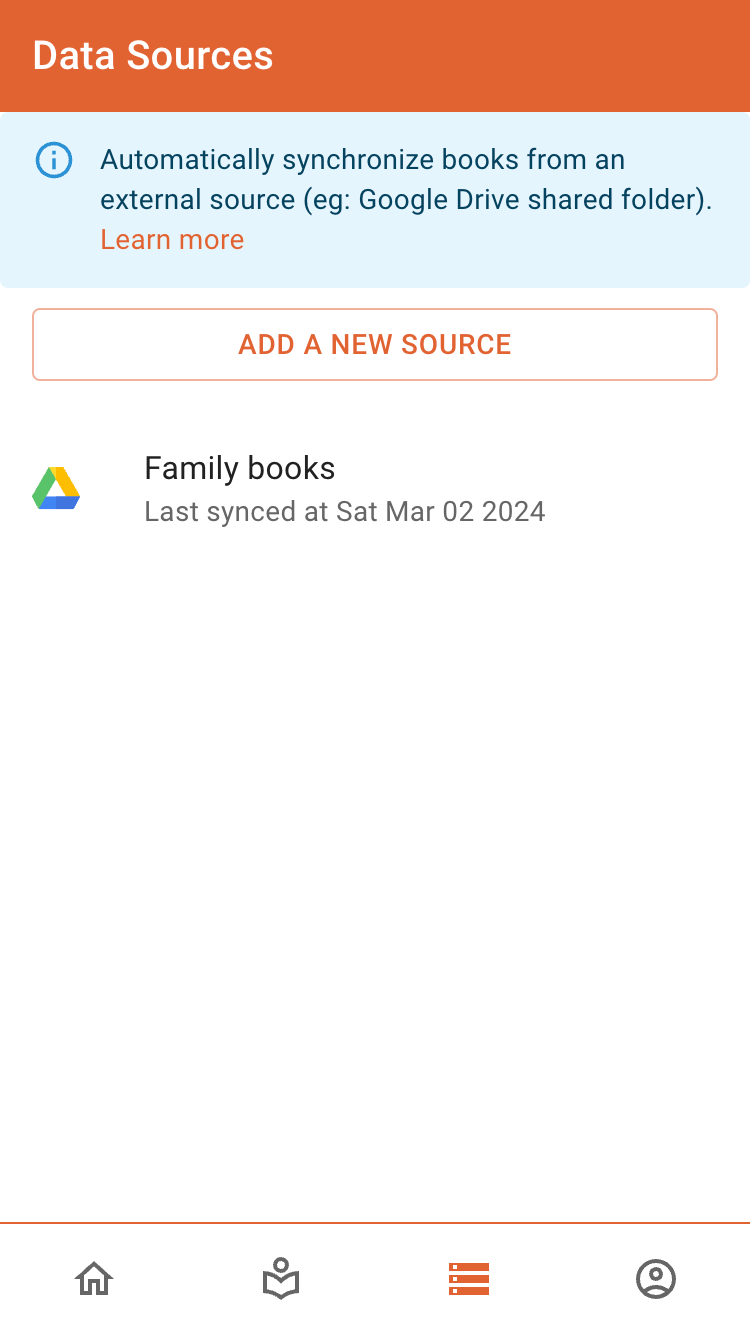
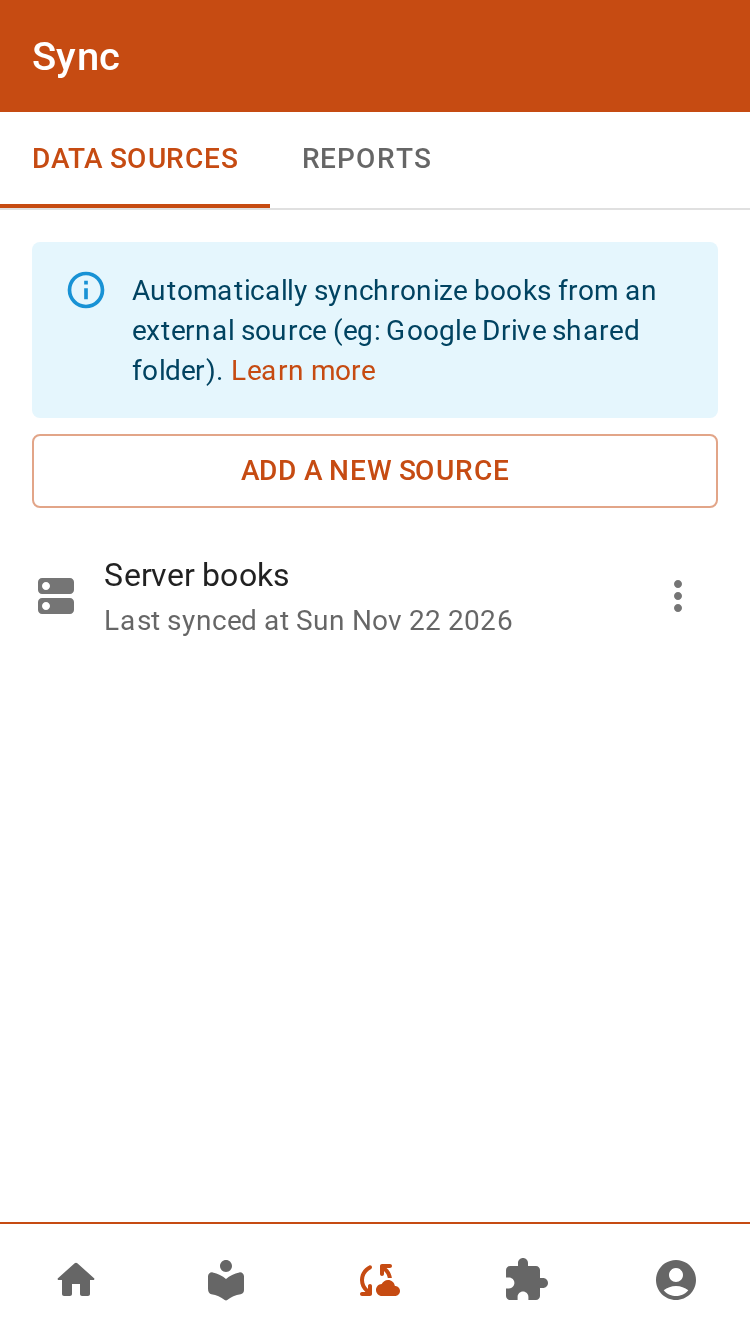
test(e2e): capture the landing screenshots
The landing target captures nine of its images: home, library, book
details, the EPUB reader with its menu, storage, data sources, the menu
to add a source, profile and the e-ink library. The stack offers Google
Drive, Dropbox and OneDrive with placeholder ids, as the hosted app
does. Only the dialog that offers to go back to a book stops a capture.

Claude-Session: https://claude.ai/code/session_01BvSDyHh4w5Nk1KtefnNGck

diff --git a/apps/e2e/tests/screenshots/scenes.spec.ts b/apps/e2e/tests/screenshots/scenes.spec.ts
@@ -80,9 +80,12 @@ async function closeReader(page: Page) {
   ).toBeVisible()
 }
 
+function backToReadingDialog(page: Page) {
+  return page.getByRole("dialog", { name: "Take me back to my book" })
+}
+
 async function declineBackToReading(page: Page) {
-  await page
-    .getByRole("dialog", { name: "Take me back to my book" })
+  await backToReadingDialog(page)
     .getByRole("button", { name: "Cancel" })
     .click()
 }
@@ -100,6 +103,13 @@ async function expectChapterOneOfTheTimeMachine(page: Page) {
 async function showLibrary(page: Page) {
   await page.goto("/library/books")
   await expect(page.getByText(LITTLE_NEMO.title, { exact: true })).toBeVisible()
+}
+
+/** For a list that renders only the books on screen, in no fixed order. */
+function anyServerLibraryBookTitle(page: Page) {
+  return SERVER_LIBRARY_BOOKS.map((book) =>
+    page.getByText(book.title, { exact: true }),
+  ).reduce((titles, title) => titles.or(title))
 }
 
 async function setColorMode(page: Page, colorMode: "E-ink" | "System") {
@@ -171,9 +181,7 @@ const SCENES = {
     show: async function showManageStorage(page) {
       await page.goto("/profile/manage-storage")
       await expect(page.getByText(/ used of /)).toBeVisible()
-      await expect(
-        page.getByText(LITTLE_NEMO.title, { exact: true }),
-      ).toBeVisible()
+      await expect(anyServerLibraryBookTitle(page).first()).toBeVisible()
     },
   },
   "data-sources": {
@@ -194,7 +202,7 @@ const SCENES = {
   profile: {
     show: async function showProfile(page) {
       await page.goto("/profile")
-      await expect(page.getByText(/ used of /)).toBeVisible()
+      await expect(page.getByText("Sign out", { exact: true })).toBeVisible()
     },
   },
 } satisfies Record<string, Scene>
@@ -337,7 +345,7 @@ async function waitForScreenToSettle(page: Page) {
   })
 
   await expect(splashScreenLogo).toHaveCount(0)
-  await expect(page.getByRole("dialog")).toHaveCount(0)
+  await expect(backToReadingDialog(page)).toHaveCount(0)
   // A cover shows a placeholder, and hides its picture, until its image loads.
   await page.waitForFunction(function areImagesShown() {
     const areImagesLoaded = Array.from(document.images).every(

diff --git a/apps/e2e/src/globalSetup.ts b/apps/e2e/src/globalSetup.ts
@@ -1,16 +1,38 @@
 import {
+  type ApiClient,
   adminCreateServerSource,
   adminListServerSources,
   adminSetWebDavCredentials,
   adminUpdateServerSync,
+  adminUpdateSettings,
 } from "@oboku/shared"
 import { signInAsAdmin } from "./admin"
 import { SERVER_LIBRARY } from "./stack"
 
-/** Serves the books in fixtures/books through Server Sync. */
-export default async function enableServerLibrary() {
+export default async function configureStack() {
   const client = await signInAsAdmin()
 
+  await enableServerLibrary(client)
+  await offerCloudProviders(client)
+}
+
+/**
+ * The app offers Google Drive and OneDrive, as the hosted app does. The stack
+ * cannot reach them, so their ids are placeholders and signing in fails.
+ */
+async function offerCloudProviders(client: ApiClient) {
+  await adminUpdateSettings({
+    client,
+    body: {
+      googleClientId: "e2e-placeholder.apps.googleusercontent.com",
+      googleApiKey: "e2e-placeholder",
+      microsoftApplicationClientId: "e2e-placeholder",
+    },
+  })
+}
+
+/** Serves the books in fixtures/books through Server Sync. */
+async function enableServerLibrary(client: ApiClient) {
   await adminUpdateServerSync({ client, body: { enabled: true } })
   await adminSetWebDavCredentials({
     client,
